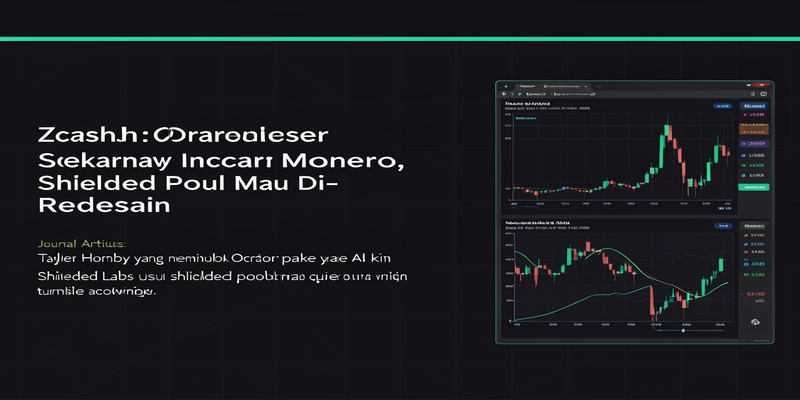
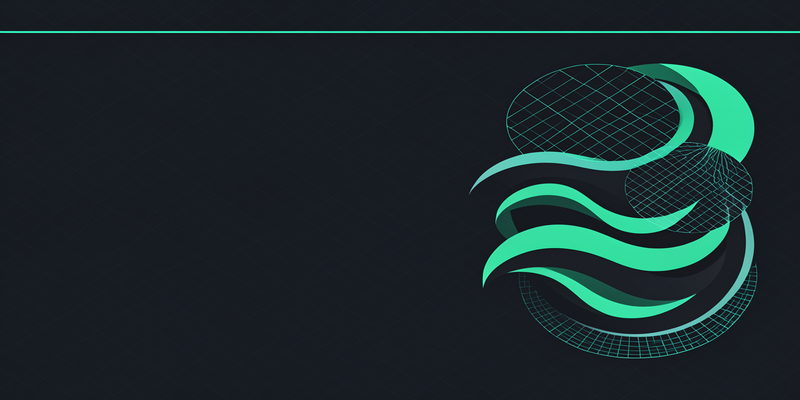
fix(scripts): anti-text prompts + abstract-only visuals for Flux
- Replace dashboard/chart/ticker themes with pure geometric abstractions
- Remove Title context from prompts (model was rendering as text)
- Strengthen no-text framing: explicit 'no letters, no words, no numbers'
- Add contrast guidance to prevent completely dark images
- Clean unused function parameters

diff --git a/scripts/generate-images.py b/scripts/generate-images.py
@@ -117,74 +117,59 @@ def generate_image(prompt: str, output_path: str, width: int, height: int) -> di
 
 CATEGORY_VISUALS = {
     "Airdrop": {
-        "icon": "gift boxes, token distribution charts, farming dashboard UI",
+        "icon": "abstract geometric shapes, interconnected nodes, layered polygons",
         "palette": "emerald green (#10B981) accent",
-        "theme": "farming interface with points tally, referral tree, farming progress bars",
+        "theme": "geometric patterns with radiating lines, polygonal mesh structures",
     },
     "Journal": {
-        "icon": "price charts, news ticker, market data, candlestick patterns",
+        "icon": "abstract wave patterns, flowing线条, geometric grid compositions",
         "palette": "emerald green (#059669) accent",
-        "theme": "market analysis dashboard with macro data",
+        "theme": "organic flowing shapes, interconnected rings, layered depth",
     },
     "Tutorial": {
-        "icon": "code editor, terminal windows, command lines, network diagrams",
+        "icon": "abstract geometric blocks, binary-like patterns, structured grids",
         "palette": "blue (#3B82F6) accent",
-        "theme": "terminal with code blocks, CLI interface, step indicators",
+        "theme": "isometric geometric shapes, stacked blocks, network nodes",
     },
     "DeFi": {
-        "icon": "liquidity pools, yield curves, protocol dashboard, swap interface",
+        "icon": "interlocking geometric rings, circular patterns, flowing lines",
         "palette": "purple (#8B5CF6) accent",
-        "theme": "DeFi protocol dashboard with TVL charts, pool metrics",
+        "theme": "concentric geometric patterns, interwoven circular motifs",
     },
     "Berita": {
-        "icon": "breaking news ticker, newspaper layout, headline UI",
+        "icon": "abstract radiating lines, geometric bursts, layered rectangles",
         "palette": "blue (#3B82F6) accent",
-        "theme": "news terminal with headlines, timestamp feed",
+        "theme": "expanding geometric patterns, layered depth gradients",
     },
 }
 
 DEFAULT_VISUAL = CATEGORY_VISUALS["Journal"]
 
 
-def build_og_prompt(title: str, category: str, description: str = "") -> str:
+def build_og_prompt(_title: str, category: str, _description: str = "") -> str:
     visual = CATEGORY_VISUALS.get(category, DEFAULT_VISUAL)
-    title_keywords = title.replace('"', "").replace("'", "")
-    desc_hint = f" Article context: {description[:200]}" if description else ""
 
-    return f"""Generate a dark terminal-themed OG image (1200x630) for a crypto blog article. DO NOT render any text - no title text, no labels, no "CryptoSynth.id", no category badges. Pure visuals only.
-
-Title context: "{title}"
-Category: {category}{desc_hint}
-
-Visual requirements:
-- Dark background (#0F172A) with subtle grid lines
-- {visual['palette']} - thin top border line
-- Visual: {visual['icon']}
-- {visual['theme']}
-- UNIQUE design: the image MUST visually reference "{title_keywords[:60]}" specifically, not generic crypto imagery
-- NO TEXT whatsoever on the image
-
-Style: hacker terminal aesthetic, minimal, no human faces, no gradients, flat design. Terminal dashboard look. Every image for this blog should be visually distinct - never use the same chart pattern, icon layout, or composition twice."""
+    return f"""Abstract geometric shapes, clean lines, and layered forms on a dark background (1200x630).
+ABSOLUTELY NO TEXT, NO LETTERS, NO WORDS, NO NUMBERS - pure visual only.
+Background: solid dark (#0F172A) with subtle grid pattern.
+Thin {visual['palette']} line near top edge as accent.
+Prominent abstract elements in muted teal and green tones: {visual['icon']}
+Arrangement: {visual['theme']}
+Style: flat colors, crisp geometric shapes, dark hacker aesthetic, no gradients, no humans.
+Make the abstract shapes clearly visible with good contrast - this should look like an album art, not an empty dark rectangle."""
 
 
-def build_hero_prompt(title: str, category: str, description: str = "") -> str:
+def build_hero_prompt(_title: str, category: str, _description: str = "") -> str:
     visual = CATEGORY_VISUALS.get(category, DEFAULT_VISUAL)
-    title_keywords = title.replace('"', "").replace("'", "")
-    desc_hint = f" Article context: {description[:150]}" if description else ""
 
-    return f"""Generate a dark terminal-themed hero image (800x400) for a crypto blog article. DO NOT render any text - no title text, no labels, no "CryptoSynth.id". Pure visuals only.
-
-Title context: "{title}"
-Category: {category}{desc_hint}
-
-Visual requirements:
-- Dark background (#0F172A) with subtle grid lines
-- {visual['palette']} - thin top border line
-- Visual on right side: {visual['icon']}
-- UNIQUE design: must visually reference "{title_keywords[:50]}" specifically
-- NO TEXT whatsoever on the image
-
-Style: hacker terminal aesthetic, minimal, no human faces, no gradients, flat design. Never reuse the same layout or chart style from previous images."""
+    return f"""Abstract geometric shapes, clean lines, and layered forms on a dark background (800x400).
+ABSOLUTELY NO TEXT, NO LETTERS, NO WORDS, NO NUMBERS - pure visual only.
+Background: solid dark (#0F172A) with subtle grid pattern.
+Thin {visual['palette']} line near top edge as accent.
+Abstract geometric shapes stacked on the right side: {visual['icon']}
+Arrangement: {visual['theme']}
+Style: flat colors, crisp geometric shapes, dark hacker aesthetic, no gradients, no humans.
+Make the abstract shapes clearly visible with good contrast - this should look like an album art, not an empty dark rectangle."""
 
 
 def main():
